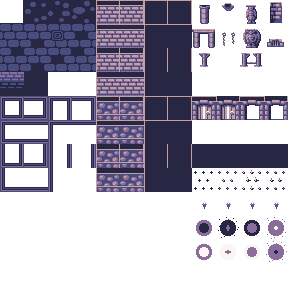
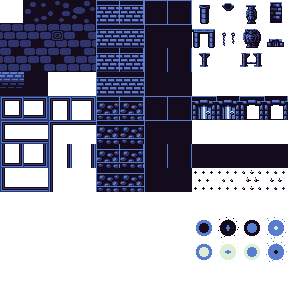
in-game palettes

diff --git a/core/src/main/com/ovle/rll3/view/Palette.kt b/core/src/main/com/ovle/rll3/view/Palette.kt
@@ -3,30 +3,67 @@ package com.ovle.rll3.view
 import com.badlogic.gdx.graphics.Color
 
 object Palette {
-    val blackColor: Color = Color.valueOf("272744ff")
-    val darkColor: Color = Color.valueOf("494d7eff")
-    val middleColor: Color = Color.valueOf("8b6d9cff")
-    val lightRedColor: Color = Color.valueOf("c69fa5ff")
-//    val lightYellowColor: Color = Color.valueOf("f2d3abff")
-    val whiteColor: Color = Color.valueOf("fbf5efff")
-
-    private val orderedColors = arrayOf(
-        blackColor, darkColor, middleColor, lightRedColor, /*lightYellowColor,*/ whiteColor
+    private val mappedPalette = arrayOf(
+        Color.valueOf("140C1Cff"),
+        Color.valueOf("30346Dff"),
+        Color.valueOf("597DCEff"),
+        Color.valueOf("DEEED6ff")
     )
 
+    private val palette1 = arrayOf(
+        Color.valueOf("140C1Cff"),
+        Color.valueOf("4E4A4Eff"),
+        Color.valueOf("D04648ff"),
+        Color.valueOf("DAD45Eff")
+    )
+
+    private val palette2 = arrayOf(
+        Color.valueOf("140C1Cff"),
+        Color.valueOf("442434ff"),
+        Color.valueOf("346524ff"),
+        Color.valueOf("6DAA2Cff")
+    )
+
+    private val palette3 = arrayOf(
+        Color.valueOf("140C1Cff"),
+        Color.valueOf("854C30ff"),
+        Color.valueOf("D27D2Cff"),
+        Color.valueOf("DEEED6ff")
+    )
+
+    private val palette4 = arrayOf(
+        Color.valueOf("140C1Cff"),
+        Color.valueOf("4E4A4Eff"),
+        Color.valueOf("757161ff"),
+        Color.valueOf("DEEED6ff")
+    )
+
+    private val palette = palette4
+
+    val blackColor: Color = palette.first()
+    val whiteColor: Color = palette.last()
+
     fun next(color: Color): Color {
-        return when (val index = orderedColors.indexOf(color)) {
+        //todo test
+        if (color == blackColor) return color
+
+        return when (val index = palette.indexOf(color)) {
             -1 -> color                         //out of palette
-            orderedColors.size - 1 -> color     //already last
-            else -> orderedColors[index + 1]
+            palette.size - 1 -> color     //already last
+            else -> palette[index + 1]
         }
     }
 
     fun prev(color: Color): Color {
-        return when (val index = orderedColors.indexOf(color)) {
+        return when (val index = palette.indexOf(color)) {
             -1 -> color                         //out of palette
             0 -> color                          //already first
-            else -> orderedColors[index - 1]
+            else -> palette[index - 1]
         }
+    }
+
+    fun map(color: Color): Color {
+        val index = mappedPalette.indexOf(color)
+        return if (index == -1) color else palette[index]
     }
 }
